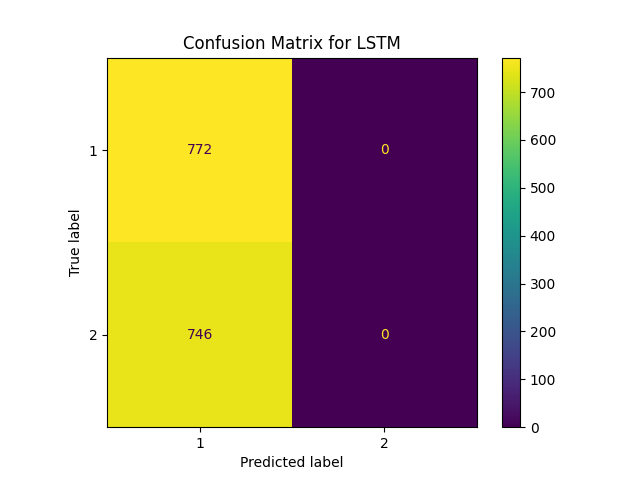
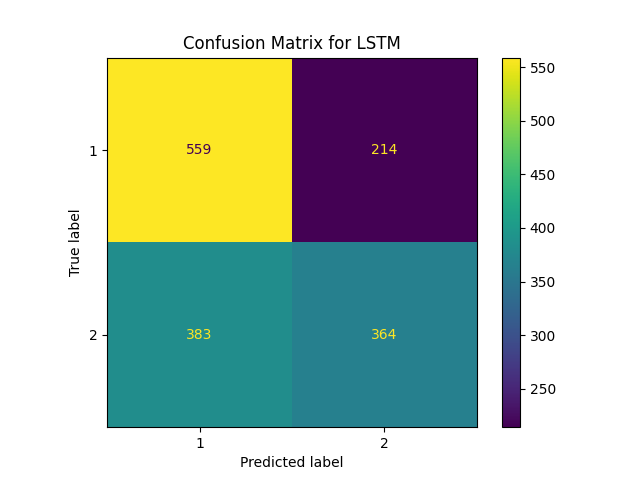
hyperparameter adjustments: fixed max iterations for SVM and logistic regression. additionally, updated LSTM hyperparameters to allow for better modeling

diff --git a/code/config.py b/code/config.py
@@ -88,7 +88,7 @@ HYPERPARAMETERS = {
         "cache_size": 500, # size of kernel cache (mb)
         "class_weight": "balanced", # weights associated with classes
         "verbose": False, # verbosity level
-        "max_iter": 1000, # maximum number of iterations
+        "max_iter": -1, # maximum number of iterations
         # decision function
         "decision_function_shape": "ovr", # one-vs-rest decision function
         "break_ties": False, # whether to break ties
@@ -108,7 +108,7 @@ HYPERPARAMETERS = {
         # computational settings
         "random_state": 21, # random seed for reproducibility
         "solver": "lbfgs", # optimization solver
-        "max_iter": 2000, # maximum iterations
+        "max_iter": 3000, # maximum iterations
         "verbose": 0, # verbosity level
         "warm_start": False, # reuse previous solution
         "n_jobs": -1, # number of jobs to run in parallel
@@ -177,14 +177,14 @@ HYPERPARAMETERS = {
     },
     "LSTM": {
         # model architecture
-        "hidden_size": 128, # number of units in hidden layer
-        "num_layers": 2, # number of recurrent layers
+        "hidden_size": 64, # number of units in hidden layer
+        "num_layers": 1, # number of recurrent layers
         # training hyperparams
         "optimizer": "Adam", # optimization algorithm
-        "learning_rate": 0.0005, # step size for optimizer
+        "learning_rate": 0.005, # step size for optimizer
         "weight_decay": 0.01, # weight decay for regularization
         "num_epochs": 300, # number of training epochs
-        "batch_size": 32, # batch size for training
+        "batch_size": 16, # batch size for training
         # sgd parameters
         "momentum": 0.0, # momentum factor
         "dampening": 0.0, # dampening for momentum
